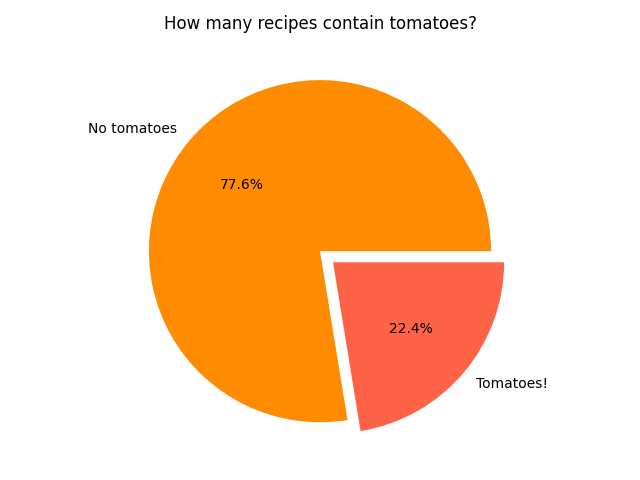
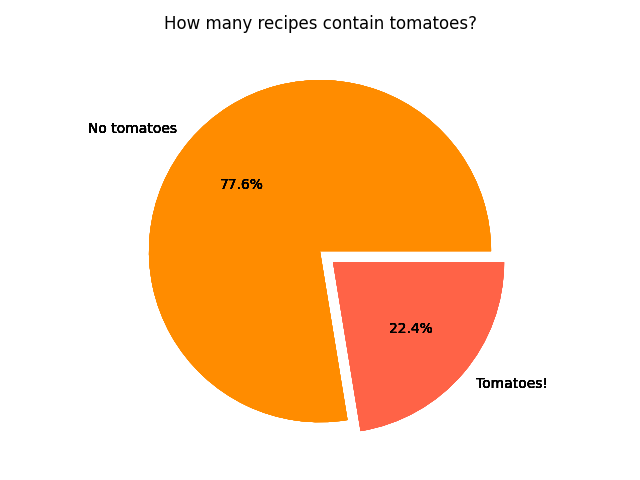
Changed appearance a bit, added my part to our recommendations.

diff --git a/tomato_engine/templates/layout.html b/tomato_engine/templates/layout.html
@@ -1,7 +1,53 @@
+
 <!DOCTYPE html>
 <html>
-  <link rel="stylesheet" href="{{ url_for('static', filename='css/main.css') }}">
+  <!--link rel="stylesheet" href="{{ url_for('static', filename='css/main.css') }}"!-->
+  <link rel="preconnect" href="https://fonts.gstatic.com">
+  <link href="https://fonts.googleapis.com/css2?family=Space+Mono&display=swap" rel="stylesheet">
   <style>
+    body, html {
+    margin: 0;
+    font-family: 'Space Mono', monospace;
+    text-align: center;
+    background: AliceBlue;
+    }
+
+    h1 {
+    color: black;
+    font-family: 'Space Mono', monospace;
+    font-size: 14px;
+    }
+
+    .header {
+    padding: 50px;
+    text-align: center;
+    background: AliceBlue;
+    color: tomato;
+    font-family: 'Space Mono', monospace;
+    font-size: 30px;
+    }
+
+    .results {
+    text-align: left;
+    }
+
+    .caption {
+    text-align: left;
+    }
+
+    .main {
+    padding: 60px;
+    }
+
+    h2 {
+    color: #FF8C00;
+    font-size: 18px;
+    }
+
+    h3 {
+    font-size: 15px;
+      }
+    
     /* NAVBAR */
 
     ul {
@@ -46,8 +92,9 @@
 	<br>
 	<br>
 	<br>
-	<h1 class="logo"><img src="../static/banner.png" width=30%></h1>
-	      <p>A Popcorn for Penguins© production.</p>
+	<h1 class="logo"><img src="../static/banner.png" width=30%>
+	<p>A Popcorn for Penguins© production.</p>
+	</h>
 	<strong><nav>
 	    <ul class="menu">
 	      <li><a href="{{ url_for('search') }}">Tomato Engine</a></li>

diff --git a/tomato_engine/templates/recommend.html b/tomato_engine/templates/recommend.html
@@ -3,8 +3,46 @@
 {% block content %}
 <div class="recommend">
   <html>
+    <head>
+    <style>
+      .person1 {
+      margin: 20px;
+      margin-left: 600px;
+      margin-right: 640px;
+      text-align: justify;
+      text-justify: inter-word;
+      }
+      .person2 {
+      margin: 20px;
+      margin-left: 600px;
+      margin-right: 640px;
+      text-align: justify;
+      text-justify: inter-word;
+      }
+      .person3 {
+      margin: 20px;
+      margin-left: 600px;
+      margin-right: 640px;
+      text-align: justify;
+      text-justify: inter-word;
+      }
+    </style>
+    </head>
     <body>
-      <p>Our recommendations</p>
+      <dl>
+	<div class="person1">
+	  <dt><b>Penguin A</b></dt>
+	  <dd>One of my favourite dishes from our list would probably be the <i>Slow cooker ratatouille</i>. Search for the recipe e.g. with the word 'aubergine'. As a dessert I would like to have something refreshing yet sweet. How about the <i>Peach & orange yogurt pot with ginger oats</i>? Find it by searching for 'peach'.</dd>
+	</div>
+	<div class="person2">
+	  <dt><b>Penguin L</b></dt>
+	  <dd>Give me that cheesecake!</dd>
+	</div>
+	<div class="person3">
+	  <dt><b>Penguin M</b></dt>
+	  <dd>I love ceasar salad.</dd>
+	</div>
+      </dl>
     </body>
   </html>
 </div>

diff --git a/tomato_engine/templates/search.html b/tomato_engine/templates/search.html
@@ -5,7 +5,7 @@
  <html lang="en">
    <head>
      <meta charset="utf-8">
-     <link rel="stylesheet" href="{{ url_for('static', filename='css/main.css') }}">
+     <!--link rel="stylesheet" href="{{ url_for('static', filename='css/main.css') }}"!-->
      <link rel="stylesheet" href="https://cdnjs.cloudflare.com/ajax/libs/font-awesome/4.7.0/css/font-awesome.min.css">
      <title>TOMATO</title>
    </head>
@@ -22,6 +22,7 @@
      float: centered;
      width: 21.5%;
      background: white;
+     outline:none;
      }
 
      form.searchnav button {

diff --git a/tomato_engine/templates/about.html b/tomato_engine/templates/about.html
@@ -4,7 +4,10 @@
 <div class="about">
 <html>
   <body>
-    <img src="./static/tomato_plot.png">
+    <div class="tomato plot">
+      <p><b>Now...</b> We all have been waiting for it:</p>
+      <img src="./static/tomato_plot.png">
+    </div>  
   </body>
 </html>
 </div>

diff --git a/tomato_engine/static/css/.#main.css b/tomato_engine/static/css/.#main.css
@@ -1,0 +1,1 @@
+root@DESKTOP-A0HCFR4.3004

diff --git a/tomato_engine/search_engine.py b/tomato_engine/search_engine.py
@@ -154,7 +154,7 @@ def about():
         plt.pie(slices, labels=labels, colors=colors, explode=explode, autopct='%1.1f%%')
         plt.title("How many recipes contain tomatoes?")
         plt.tight_layout()
-        plt.savefig(f'static/tomato_plot')
+        plt.savefig(f'static/tomato_plot.png')
     
 
     tomato_plot(ingredients)
